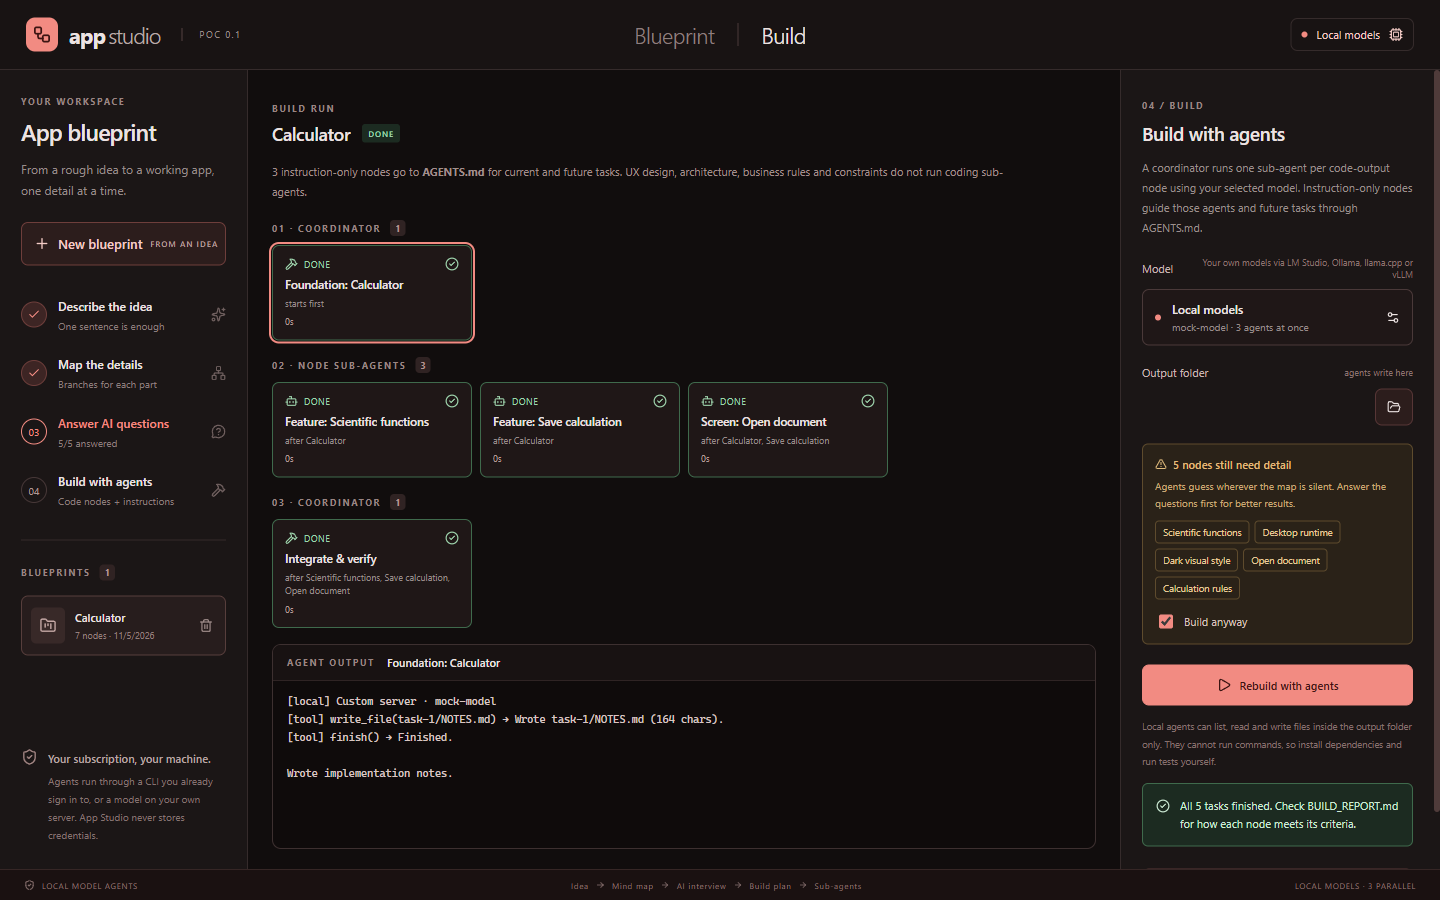
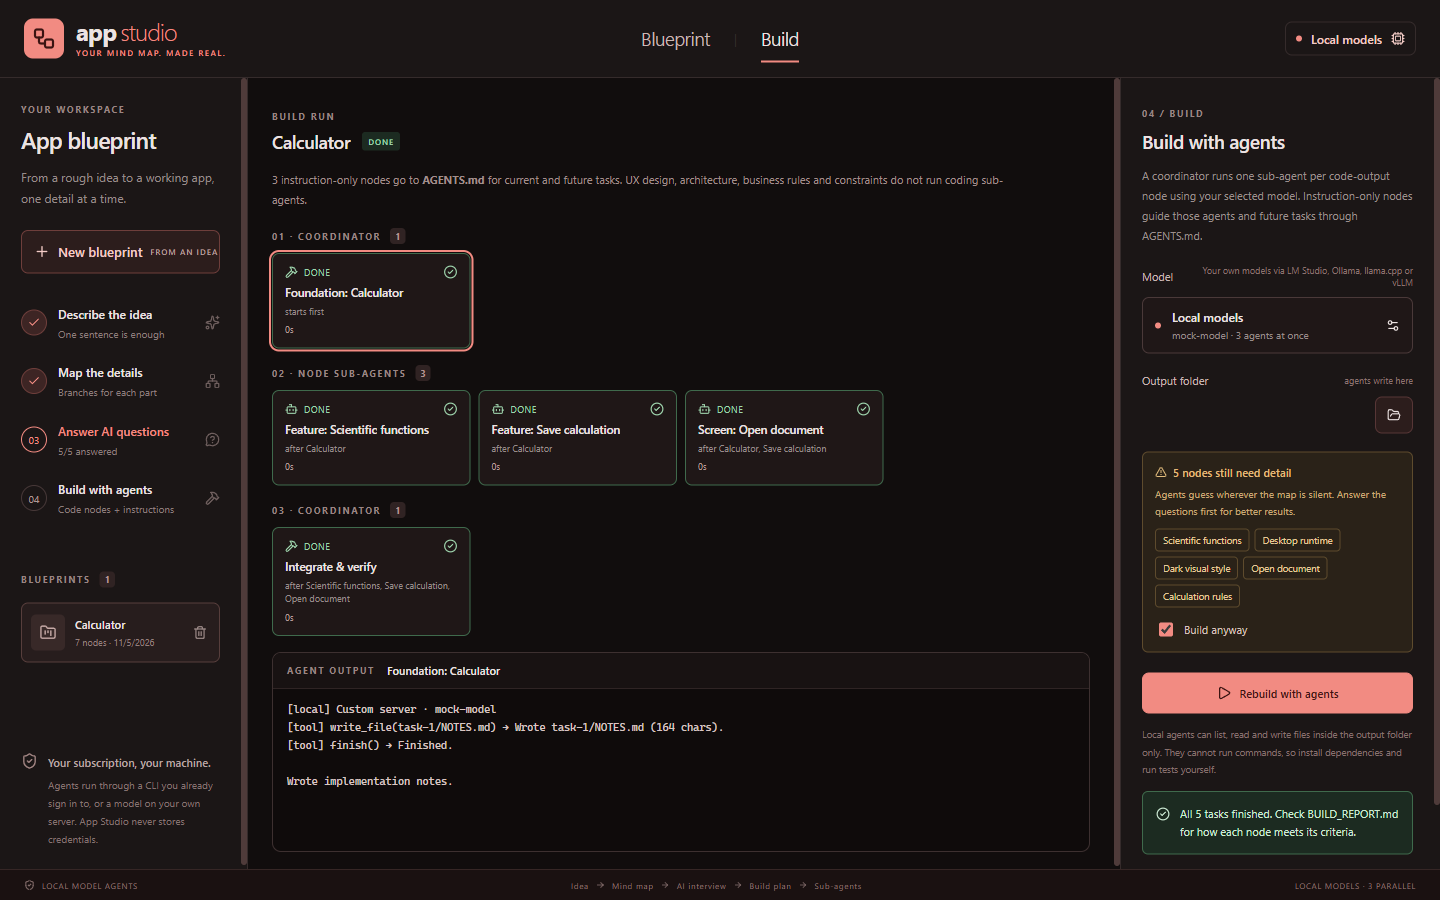
Match CharacterStudio title bar branding and add subtitle

diff --git a/src/renderer/style.css b/src/renderer/style.css
@@ -82,20 +82,22 @@ svg { flex-shrink: 0; }
 
 /* Shell */
 .app { height: 100vh; min-height: 740px; display: flex; flex-direction: column; }
-.topbar { height: 70px; flex-shrink: 0; border-bottom: 1px solid var(--line); display: grid; grid-template-columns: 1fr auto 1fr; align-items: center; padding: 0 26px; gap: 20px; background: #181313; }
-.brand { display: flex; align-items: center; gap: 11px; white-space: nowrap; }
-.brand-mark { width: 32px; height: 34px; border-radius: 9px; background: var(--accent); color: var(--accent-ink); display: grid; place-items: center; }
-.brand strong { font-size: 22px; letter-spacing: -1px; font-weight: 700; }
-.brand strong span { font-weight: 350; color: #b9aaa8; margin-left: 3px; }
-.version { font-size: 9px; letter-spacing: 1.5px; color: #9a8b89; margin-left: 10px; border-left: 1px solid #554141; padding-left: 17px; }
-.workspace-tabs { display: flex; align-items: center; gap: 14px; }
-.workspace-tabs button { font-size: 22px; font-weight: 350; letter-spacing: -.5px; color: #8d7f7e; padding: 4px 8px; }
-.workspace-tabs button.active { color: var(--text); }
-.workspace-tabs button:hover:not(:disabled) { background: none; color: var(--text-soft); }
-.workspace-tabs i { width: 1px; height: 22px; background: var(--line-strong); }
-.connection { justify-self: end; font-size: 11px; padding: 8px 10px; gap: 9px; border-color: var(--line); color: var(--tint-text); }
+.topbar { height: 78px; flex-shrink: 0; border-bottom: 1px solid var(--line); display: grid; grid-template-columns: minmax(0, 1fr) auto minmax(0, 1fr); align-items: center; padding: 0 24px; gap: 20px; background: var(--panel); }
+.brand { display: flex; align-items: center; justify-self: start; gap: 12px; white-space: nowrap; }
+.brand-mark { width: 40px; height: 40px; border-radius: 9px; background: var(--accent); color: var(--accent-ink); display: grid; place-items: center; flex-shrink: 0; }
+.brand-name { display: flex; flex-direction: column; gap: 3px; }
+.brand-name > strong { font-size: 24px; letter-spacing: -.8px; font-weight: 700; line-height: 1.1; }
+.brand-name > strong > span { font-weight: 300; color: var(--accent); margin-left: 4px; }
+.brand-tagline { color: var(--accent); font-size: 8px; font-weight: 500; letter-spacing: 1.5px; line-height: 1.4; text-transform: uppercase; }
+.workspace-tabs { display: flex; align-items: center; justify-self: center; gap: 24px; }
+.workspace-tabs button { font-size: 19px; font-weight: 350; letter-spacing: -.5px; color: var(--text-soft); padding: 10px 0; border: 0; border-bottom: 2px solid transparent; border-radius: 0; }
+.workspace-tabs button.active { color: var(--text); border-bottom-color: var(--accent); }
+.workspace-tabs button:hover:not(:disabled) { background: none; color: var(--accent); }
+.module-divider { color: var(--line); }
+.connection { justify-self: end; min-width: 0; max-width: 100%; height: 34px; font-size: 12px; font-weight: 500; line-height: 16px; padding: 8px 10px; gap: 9px; border-color: var(--line); color: var(--tint-text); white-space: nowrap; }
+.connection-label { overflow: hidden; text-overflow: ellipsis; }
 .connection.warning { color: var(--warning); }
-.tiny-dot { display: inline-block; background: var(--accent); width: 6px; height: 6px; border-radius: 50%; }
+.tiny-dot { display: inline-block; background: var(--accent); width: 6px; height: 6px; border-radius: 50%; flex-shrink: 0; }
 .connection.warning .tiny-dot { background: var(--warning); }
 .studio-layout { display: grid; grid-template-columns: 248px minmax(420px, 1fr) 320px; flex: 1; min-height: 0; }
 .left-panel, .right-panel { padding: 25px 21px; background: var(--panel); overflow: auto; }

diff --git a/src/renderer/App.tsx b/src/renderer/App.tsx
@@ -444,13 +444,15 @@ export function App() {
   return <div className="app">
     <header className="topbar">
       <div className="brand">
-        <div className="brand-mark"><Workflow size={19} strokeWidth={2.2} /></div>
-        <strong>app<span>studio</span></strong>
-        <span className="version">POC 0.1</span>
+        <div className="brand-mark"><Workflow size={24} strokeWidth={2.2} /></div>
+        <div className="brand-name">
+          <strong>app<span>studio</span></strong>
+          <span className="brand-tagline">Your mind map. Made real.</span>
+        </div>
       </div>
       <nav className="workspace-tabs" aria-label="Workspace">
         <button className={tab === 'map' ? 'active' : ''} onClick={() => setTab('map')}>Blueprint</button>
-        <i />
+        <span className="module-divider" aria-hidden="true">|</span>
         <button className={tab === 'build' ? 'active' : ''} disabled={!!busy} onClick={() => {
           if (!draftRef.current || !dirty.current) { setTab('build'); return }
           void withBusy('Saving blueprint', async () => { await persist(draftRef.current!); setTab('build') })
@@ -458,7 +460,7 @@ export function App() {
       </nav>
       <button className={`connection ${provider && !provider.installed ? 'warning' : ''}`} disabled={!!busy} onClick={() => setSettingsOpen(true)} title="Model settings">
         <span className="tiny-dot" />
-        {provider ? `${provider.label}${model ? ` · ${model}` : ''}` : 'Choose a model'}
+        <span className="connection-label">{provider ? `${provider.label}${model ? ` · ${model}` : ''}` : 'Choose a model'}</span>
         <Cpu size={14} />
       </button>
     </header>

diff --git a/.github/agents/design.agent.md b/.github/agents/design.agent.md
@@ -11,7 +11,7 @@ Read the **Design system** section of `AGENTS.md` before making any change. It i
 
 - Work in `src/renderer`. All styling lives in `src/renderer/style.css`; reuse existing classes before adding new ones and keep new rules next to related components.
 - Use the CSS variables at the top of `style.css`. If a genuinely new colour is required, add a token there and document it in `AGENTS.md` in the same change.
-- Keep the shell intact: 70px topbar, 248px / flexible / 320px columns, 31px footer, scene headings with numbered uppercase kickers.
+- Keep the shell intact: 78px topbar with stacked branding and subtitle, 248px / flexible / 320px columns, 31px footer, scene headings with numbered uppercase kickers.
 - Use `lucide-react` icons at 12–16px. One `.primary` button per panel; everything else is `.secondary`, text or icon buttons.
 - Mind cards keep kind colours distinct and quiet so the accent stays reserved for selection, the app root and the next action.
 

diff --git a/README.md b/README.md
@@ -1,10 +1,14 @@
 # App Studio
 
+**Your mind map. Made real.**
+
 App Studio is an AI-powered, no-code app builder that works from a **mind map**. You describe an idea, shape it into features, screens, data, integrations, UX design, architecture, business rules and constraints, and answer AI questions about the details. A coordinator runs **one sub-agent per code-output node**; instruction-only nodes go into **AGENTS.md** for current and future tasks.
 
 > **Status:** proof of concept (v0.1). The full idea → map → interview → multi-agent build loop works end to end. Verification loops, re-planning, deployment and merge-conflict handling between agents are goals, not shipped features.
 
 ![Mind map with AI interview](docs/screenshots/blueprint.png)
+
+The title bar follows CharacterStudio's layout: a stacked wordmark and subtitle at left, centered **Blueprint** / **Build** tabs with an active underline, and the model settings chip at right.
 
 ## How it works
 

diff --git a/AGENTS.md b/AGENTS.md
@@ -74,7 +74,7 @@ App Studio shares CharacterStudio's layout language and component vocabulary, re
 
 ### Layout
 
-- 70px topbar: brand mark + `app studio` wordmark and version at left, centred workspace tabs (**Blueprint** / **Build**), model chip at right.
+- 78px topbar matching CharacterStudio: 40px brand mark + stacked `app studio` wordmark and **Your mind map. Made real.** subtitle at left, centred workspace tabs (**Blueprint** / **Build**) with an active underline, model chip at right.
 - Three-column body: 248px workflow panel, flexible centre viewport (min 420px), 320px inspector. A 31px footer shows the pipeline breadcrumb and active provider.
 - Centre panels start with a scene heading (kicker + title + tag) and an optional compact toolbar (`.view-tabs`); the viewport is a rounded, bordered canvas.
 
